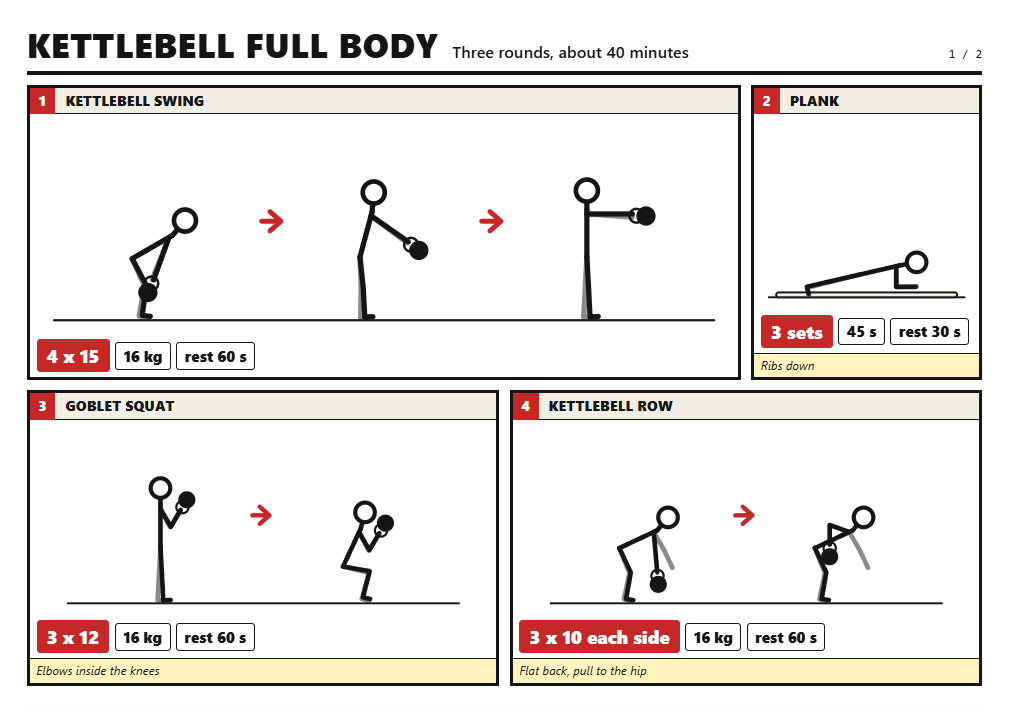
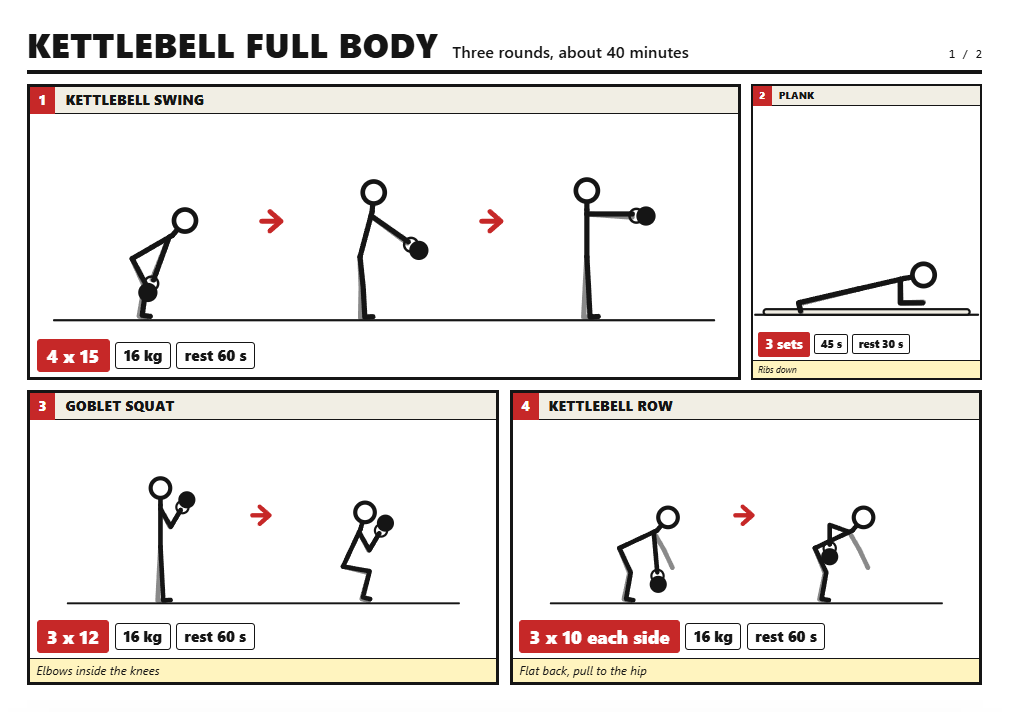
Scale each panel's type with its own width
A panel narrower than about 95 mm (A4 scale) now shrinks its caption, reps,
weight chips and note in proportion, down to half size, on top of the existing
short-row scaling. A page of narrow panels no longer has the chips filling the
cell and wrapping.

diff --git a/index.html b/index.html
@@ -3074,9 +3074,10 @@ function planRows(panels, cols) {
     return rows;
 }
 
-function buildCell(p, i, span) {
+function buildCell(p, i, span, f) {
     const c = el("div", "cell" + (i === ui.pi ? " sel" : ""));
     c.style.gridColumn = "span " + span;
+    c.style.setProperty("--f", String(f));   /* this cell's type scale, see renderSheets */
     c.tabIndex = 0;
     c.setAttribute("role", "button");
     c.setAttribute("aria-label", "Panel " + (i + 1) + ", " + (p.name || "untitled") + ". Select to edit.");
@@ -3110,6 +3111,10 @@ function renderSheets() {
 
     /* A row is comfortable at about 52 mm (A4 scale) or more. Shorter rows scale the cell type and borders down to match. */
     const fit = Math.round(Math.min(1, (H / k - 36) / lo.rows / 52) * 100) / 100;
+    /* A narrow panel scales its type down with it, so the figure and the numbers stay in proportion. 95 mm is the width of a
+       panel on the default portrait page, where the type is at full size. Both limits apply, never below half size. */
+    const colW = (W / k - 16 - 3 * (lo.cols - 1)) / lo.cols;
+    const cellFit = span => Math.round(Math.max(0.5, Math.min(1, fit, (colW * span + 3 * (span - 1)) / 95)) * 100) / 100;
     const rows = planRows(state.panels, lo.cols);
     const pages = [];
     for (let i = 0; i < rows.length; i += lo.rows) pages.push(rows.slice(i, i + lo.rows));
@@ -3135,7 +3140,7 @@ function renderSheets() {
         const grid = el("div", "sh-grid");
         grid.style.gridTemplateColumns = "repeat(" + lo.cols + ", minmax(0, 1fr))";
         grid.style.gridTemplateRows = "repeat(" + lo.rows + ", minmax(0, 1fr))";
-        pg.forEach(row => row.forEach(({ i, span }) => grid.append(buildCell(state.panels[i], i, span))));
+        pg.forEach(row => row.forEach(({ i, span }) => grid.append(buildCell(state.panels[i], i, span, cellFit(span)))));
         sh.append(grid);
         host.append(sh);
     });

diff --git a/README.md b/README.md
@@ -65,7 +65,7 @@ Save JSON writes the whole plan. Load JSON reads it back, including files saved 
 
 ## Layout
 
-Panels are placed left to right. A panel takes one column per pose unless you set its Width on the sheet in the panel editor: Automatic is one column per pose, and 1 to 6 columns fixes the width (never more than the sheet has). A narrow panel is how you fit four short exercises across a landscape page, and a wide one is how you fill a row. If the next panel will not fit in the row, the previous one stretches to close it. A partly filled last row is left open. `rows` is how many rows fit on a page, up to 5, and extra rows go onto further pages. Type scales with paper size, so A3 is A4 enlarged. It also scales down when rows get short, which only happens at four or five rows on a landscape page.
+Panels are placed left to right. A panel takes one column per pose unless you set its Width on the sheet in the panel editor: Automatic is one column per pose, and 1 to 6 columns fixes the width (never more than the sheet has). A narrow panel is how you fit four short exercises across a landscape page, and a wide one is how you fill a row. If the next panel will not fit in the row, the previous one stretches to close it. A partly filled last row is left open. `rows` is how many rows fit on a page, up to 5, and extra rows go onto further pages. Type scales with paper size, so A3 is A4 enlarged. It also scales down for each panel on its own: a panel narrower than about 95 mm (A4 scale) shrinks its caption, reps, weight and note in proportion, down to half size, and so does a panel in a row that is short, which happens at four or five rows on a landscape page. That is what lets a page of narrow panels stay readable.
 
 ## Library
 
